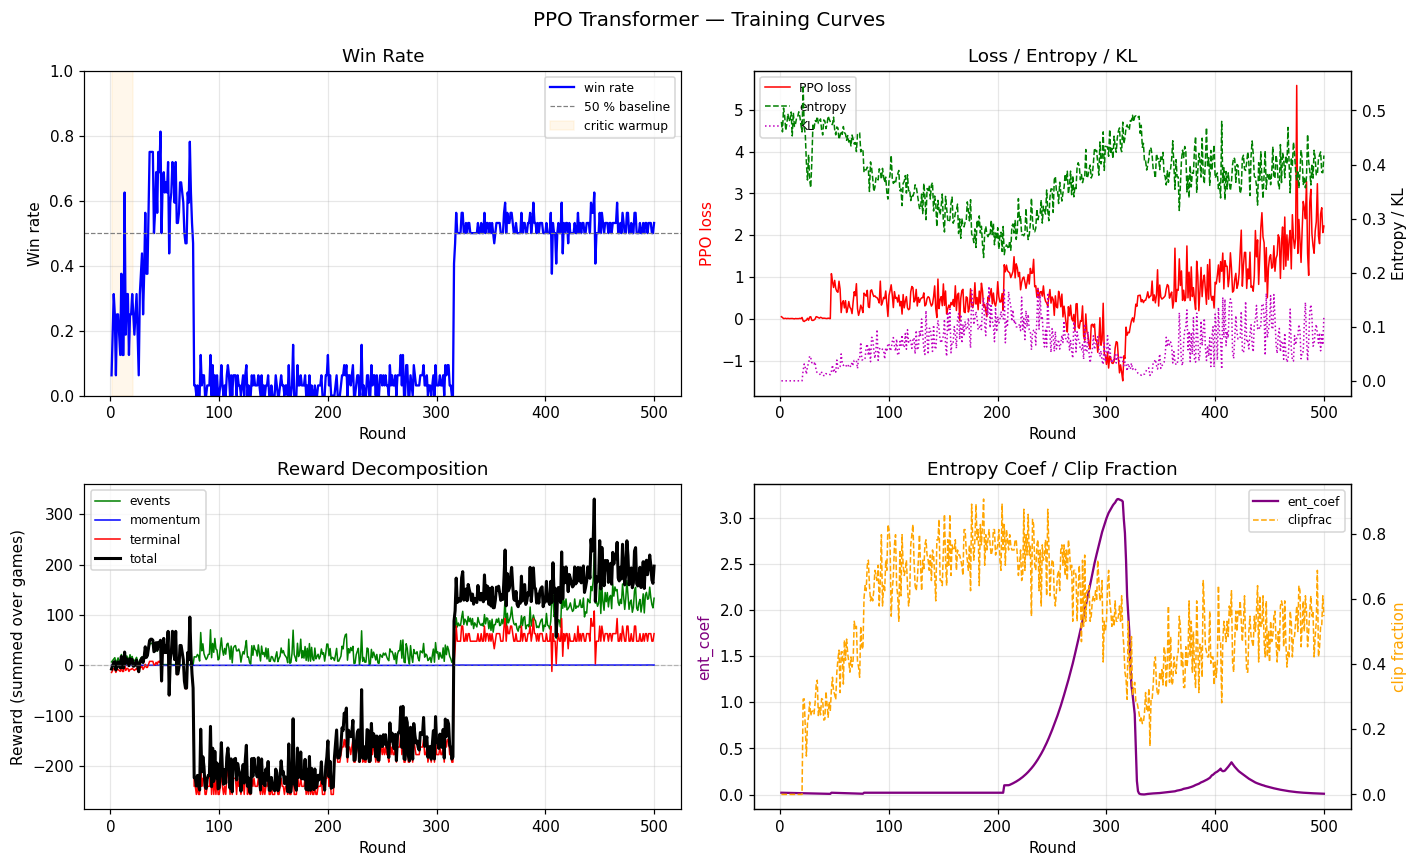
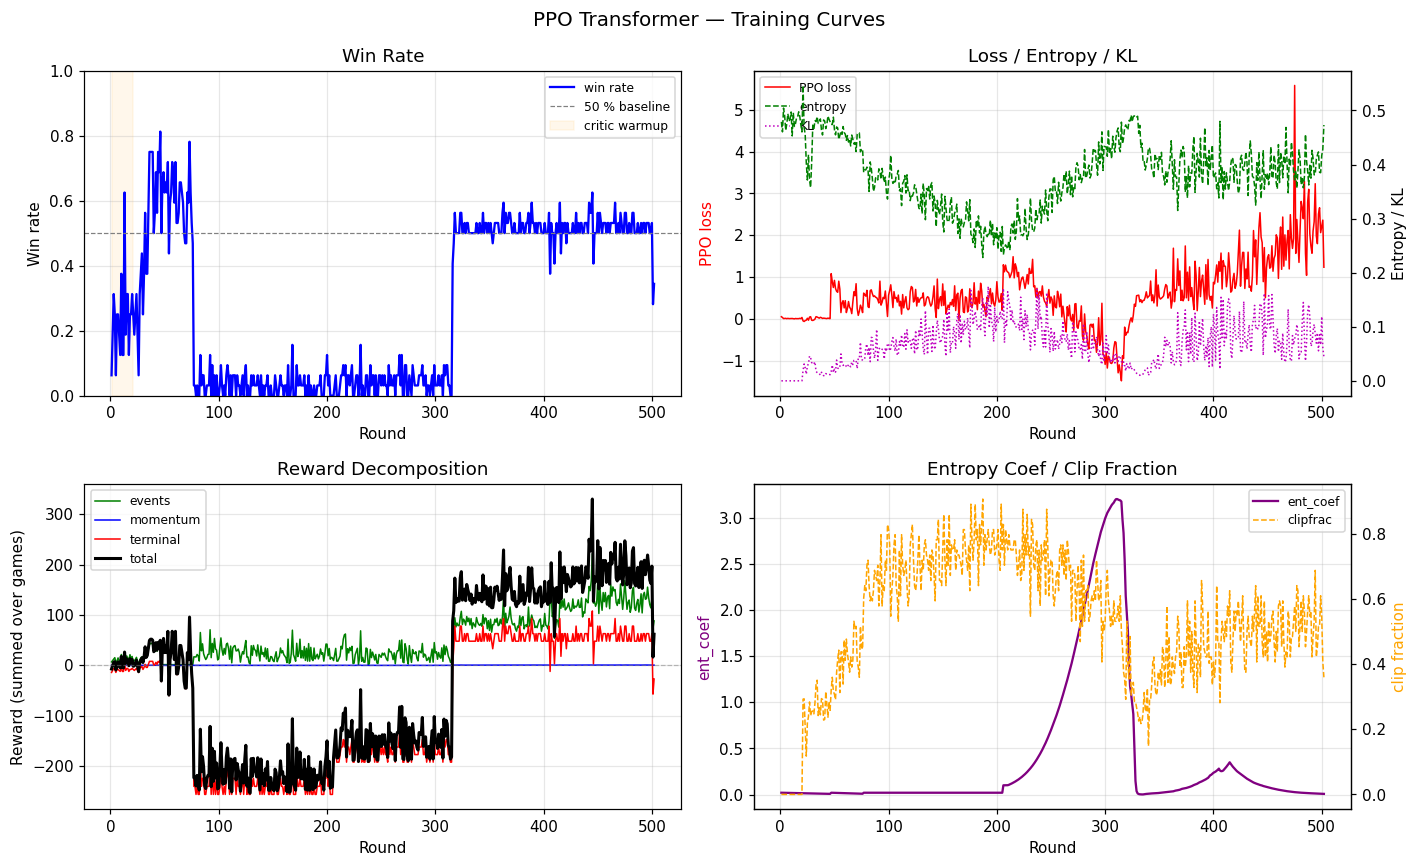
started with tier 3

diff --git a/rl/transformer_trainer.py b/rl/transformer_trainer.py
@@ -109,8 +109,8 @@ TOP_K_EDGES      = 5
 # If entropy > TARGET_ENTROPY: alpha decreases -> weaker entropy push
 # This is the ONLY mechanism that holds entropy under constant loss pressure.
 # A fixed ent_coef CANNOT win against the PPO gradient when all rewards are negative.
-TARGET_ENTROPY = 0.35   # lowered to prevent alpha explosion
-ALPHA_LR       = 0.05   # extremely fast adaptation (0.05) needed because PPO updates are rare
+TARGET_ENTROPY = 0.42   # raised slightly for Tier 3 exploration
+ALPHA_LR       = 0.10   # increased tension: adapts even faster to entropy drops
 ENT_COEF_START = 0.1    # start strong so PPO doesn't get a head start on collapsing
 # ENT_COEF_END and ENT_COEF_RAMP kept for backward compat with notebook prints
 ENT_COEF_END   = 0.013
